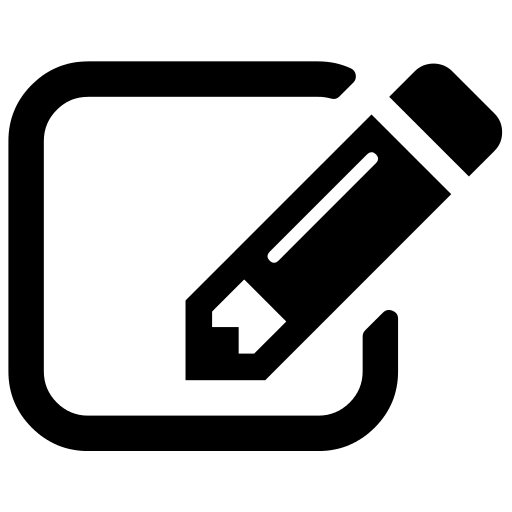
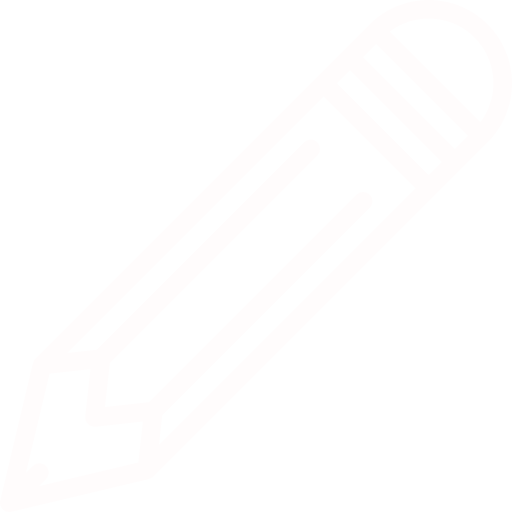
feature de edição em player

Changed region(s): [[0.0, 0.0938, 0.7812, 0.9062], [0.3438, 0.2188, 0.875, 0.75], [0.75, 0.125, 1.0, 0.3438]]

diff --git a/public/src/components/List.js b/public/src/components/List.js
@@ -1,48 +1,126 @@
 import React, { Component } from 'react';
+import API from '../services/api';
 import ArrowDown from '/home/devsuhett/Projects/Players/public/images/arrow-down.png'
 import ArrowUp from '/home/devsuhett/Projects/Players/public/images/arrow-up.png'
+import Trash from '/home/devsuhett/Projects/Players/public/images/trash.png'
+import Edit from '/home/devsuhett/Projects/Players/public/images/edit.png'
+import Confirm from '/home/devsuhett/Projects/Players/public/images/confirm.png'
+import Delete from '/home/devsuhett/Projects/Players/public/images/delete-white.png';
 
-
+let id = 0;
 export default class List extends Component {
-  state = {
-    buttonScope: false
+  constructor(props) {
+    super(props);
+    this.state = {
+      username: this.props.item.username,
+      game: '',
+      games: this.props.item.games,
+      buttonScope: false,
+      clickEdit: false
+    }
   }
 
-  games = (item) => {
+  games = (index, game) => {
     return (
       <div className="gameBlock">
-        {item.games.map(game => (
-          <div key={game} className="gameItem">{game}</div>
-        ))
+        {
+          this.state.clickEdit
+            ? <span>
+              <input key={id} className="gameItemInput" onChange={(e) => this.gameFieldChanged(index, e)} defaultValue={game} />
+              <button onClick={(e) => this.removeGameField(e, index)} className="buttonItemList"><img alt="delete game of player" src={Delete} />
+              </button>
+            </span>
+            : <div key={game} className="gameItem">{game}</div>
         }
-      </div> 
+      </div>
     );
+  }
+
+  gameFieldChanged(index, e) {
+    this.setState({ games: this.state.games.reduce((game, new_game) => 
+      { new_game = e.target.value; return game + new_game }) 
+    })
+    console.log(this.state);
+  }
+
+  removeGameField(e, index) {
+    e.preventDefault();
+    const new_games = this.state.games.filter((s, gindex) => { return index !== gindex })
+    if (new_games.length)
+      this.setState({ games: new_games });
   }
 
   buttonToggle = () => {
     this.setState({ buttonScope: !this.state.buttonScope })
   }
 
+  async submitEdit(playerid, new_data) {
+    try {
+      await API.put(`players/${playerid}`, new_data)
+      this.props.handleUpdateList()
+      this.setState({ clickEdit: !this.state.clickEdit })
+
+    } catch (error) {
+      console.log(error);
+    }
+  }
+
+  removePlayer = (playerid) => {
+    API.delete(`/players/${playerid}`)
+    this.props.handleUpdateList()
+  }
+
   render() {
-    const { buttonScope } = this.state;
+    const { buttonScope, games } = this.state;
     const { item } = this.props;
     let imageurl;
     return (
       <div className="itemBox">
-          <div className="itemList">
-            <li>{item.username}</li>
-            <button className="buttonItemList" onClick={this.buttonToggle.bind(this)}>
-              <span className="hiddenButtonText">{ buttonScope ? imageurl = ArrowDown : imageurl = ArrowUp }</span>
-              <img alt="arrow to display items" src={imageurl}/>
-            </button>
-            <div>
-              {
-                buttonScope
-                  ? <div className="gameList">{this.games(item)}</div>
-                  : null
-              }
-            </div>
+        <div className="itemList">
+          {this.state.clickEdit
+            ? <input className="inputEditName" onChange={(e) => this.setState({ username: e.target.value })} defaultValue={item.username} />
+            : <li>{item.username}
+              <button className="buttonItemList" onClick={() => { this.removePlayer(item._id) }}>
+                <img alt="remove player" src={Trash} />
+              </button>
+              <button className="buttonItemList" onClick={() => { this.setState({ clickEdit: !this.state.clickEdit }) }} >
+                <img alt="edit player" src={Edit} />
+              </button>
+              <button className="buttonItemList" onClick={this.buttonToggle.bind(this)}>
+                <span className="hiddenButtonText">{buttonScope ? imageurl = ArrowDown : imageurl = ArrowUp}</span>
+                <img alt="arrow to display items" src={imageurl} />
+              </button>
+            </li>
+          }
+          <div>
+            {
+              buttonScope
+                ? <div className="gameList">
+                  {games.map((g, index) => {
+                    return <span key={index}>{this.games(index, g)}</span>
+                  })
+                  }
+                  {this.state.clickEdit
+                    ? <span className="ButtonEditList">
+                      <button onClick={() => {
+                        this.submitEdit(item._id, {
+                          username: this.state.username,
+                          games: this.state.games
+                        });
+                      }}>
+                        <img alt="confirm edit" src={Confirm}></img>
+                      </button>
+                      <button onClick={() => { this.setState({ clickEdit: !this.state.clickEdit }) }}>
+                        <img alt="cancel edit" src={Delete}></img>
+                      </button>
+                    </span>
+                    : null
+                  }
+                </div>
+                : null
+            }
           </div>
+        </div>
       </div>
     )
   }

diff --git a/public/css/home.css b/public/css/home.css
@@ -57,13 +57,24 @@ li {
   margin-top: 10px;
 }
 
-.gameItem{
-  margin: 5px;
+.gameItem {
+  margin: 0px;
   background-color: white;
   color: purple;
   text-align: center;
   padding: 5px;
   border-radius: 10px;
+}
+
+.gameItemInput{
+  text-align: center;
+  width: 90%;
+  background: none;
+  border: none;
+  border-radius: 0px;
+  color: white;
+  border-bottom: 1px solid white;
+  outline: none;
 }
 
 .CreateBox{
@@ -75,28 +86,35 @@ li {
   color: white; 
 }
 
-.inputCreate, .inputCreateGames {
+.inputCreate, .inputCreateGames, .inputCreateName {
   border-radius: none;
   border-bottom: 1px solid gray;  
   color: purple;
   outline: none;
 }
 
-.inputCreateGames {
+.inputCreateGames, .inputCreateName {
   display: flex;
   margin: 10px auto 24px;
   width: 100%;
 }
 
-.inputCreate::placeholder, .inputCreateGames::placeholder {
+.inputCreate::placeholder, .inputCreateGames::placeholder, .inputCreateName::placeholder {
   color: purple;
   opacity: 1; 
 }
 
 .insertGameBox {
   width: 100%;
-  border-radius: 10px;
   display: flex;
+}
+
+.inputCreateName{
+  border: none;
+  border-bottom: 1px solid gray;
+  width: 100%;
+  font-size: 16px;
+  color: purple;
 }
 
 .logoutButton {
@@ -125,7 +143,7 @@ li {
 .inputCreateGames {
   border: none;
   border-bottom: 1px solid gray;
-  width: 100%;
+  width: 80%;
   font-size: 16px;
   color: purple;
 }
@@ -140,4 +158,26 @@ li {
   justify-content: center;
   display: flex;
   border-radius: 5px;
+}
+
+.ButtonEditList{
+  float: none;
+  padding: 4px 14px;
+  margin: auto;
+  justify-content: center;
+  display: flex;
+  margin: 16px auto;
+}
+
+.ButtonEditList img {
+  width: 20px;
+}
+
+.inputEditName {
+  width: 90%;
+  text-align: center;
+  background: none;
+  border: none;
+  border-bottom: 1px solid white;
+  color: white;
 }

diff --git a/controllers/players.controller.js b/controllers/players.controller.js
@@ -128,6 +128,20 @@ exports.deletePlayer = (req, res) => {
   );
 };
 
+exports.updatePlayer = (req, res) => {
+  PlayerModel.findOneAndUpdate({
+    userId: decodeTokenUserId(req.headers["x-access-token"]),
+    _id: new mongoose.mongo.ObjectID(req.params.id)
+  }, {
+    "$set": { "username": req.body.username, "games": req.body.games }
+  }, (err, player) => {
+    console.log(req.body);
+    if (err) res.status(500).send(err);
+    else res.status(200).send(player);
+
+  });
+}
+
 const decodeTokenUserId = token => {
   return decode(token).id;
 };

diff --git a/public/src/components/NewPlayer.js b/public/src/components/NewPlayer.js
@@ -97,7 +97,7 @@ export default class NewPlayer extends Component {
         <div className="createInputBox">
 
           <form onSubmit={(e) => { e.preventDefault(); this.postPlayer(); }}>
-            <input required={true} className="inputCreateGames" type="text" name="username"
+            <input required={true} className="inputCreateName" type="text" name="username"
               onChange={(e) => { this.setState({ name: e.target.value }) }} placeholder="Nome do player" />
 
             {this.state.games.map((g, index) => {

diff --git a/config/middlewares.js b/config/middlewares.js
@@ -4,6 +4,12 @@ const cors = require("cors")
 module.exports = app => {
   app.use(bodyParser.json());
   app.use(cors())
+  app.use(function(req, res, next) {
+    res.header("Access-Control-Allow-Origin", "*");
+    res.header("Access-Control-Allow-Methods", "GET, PUT, POST");
+    res.header("Access-Control-Allow-Headers", "Origin, X-Requested-With, Content-Type, Accept");
+    next();
+  });
   app.use(logger("dev"));
 
 }

diff --git a/public/src/pages/Home.js b/public/src/pages/Home.js
@@ -38,7 +38,7 @@ export default class Home extends Component {
                 ?
 
                 this.state.data.map((item, index) => {
-                  return <List  key={index} item={item} />
+                  return <List handleUpdateList={() => this.getPlayers()}  key={index} item={item} />
                 })
                 : null
             }

diff --git a/routes/players.routes.js b/routes/players.routes.js
@@ -9,6 +9,8 @@ router.get("/:id", controller.findPlayer);
 
 router.delete("/:id", controller.deletePlayer); 
 
+router.put("/:id", controller.updatePlayer)
+
 // Games
 
 router.get("/:game", controller.listGamePlayers); 

diff --git a/public/src/services/routes.js b/public/src/services/routes.js
@@ -29,7 +29,7 @@ export const Routes = () => {
       
       <Route>
         <NavHeader />
-        <h1>Page not found :O</h1>
+        <h1>Page not found</h1>
       </Route>
     </Switch>
   )
